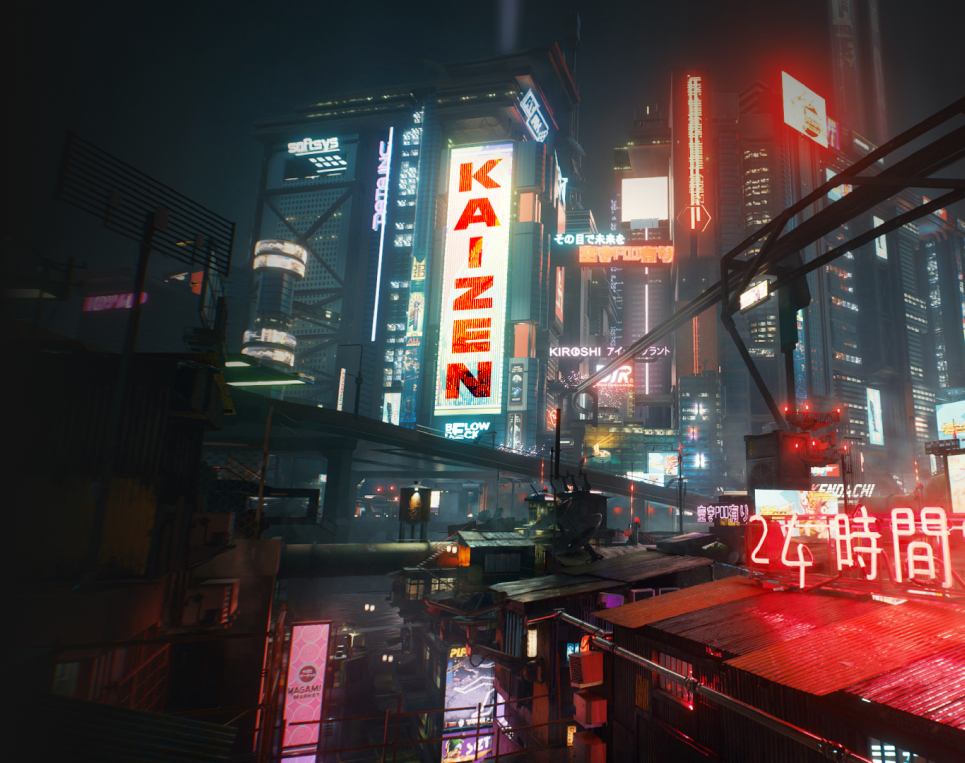
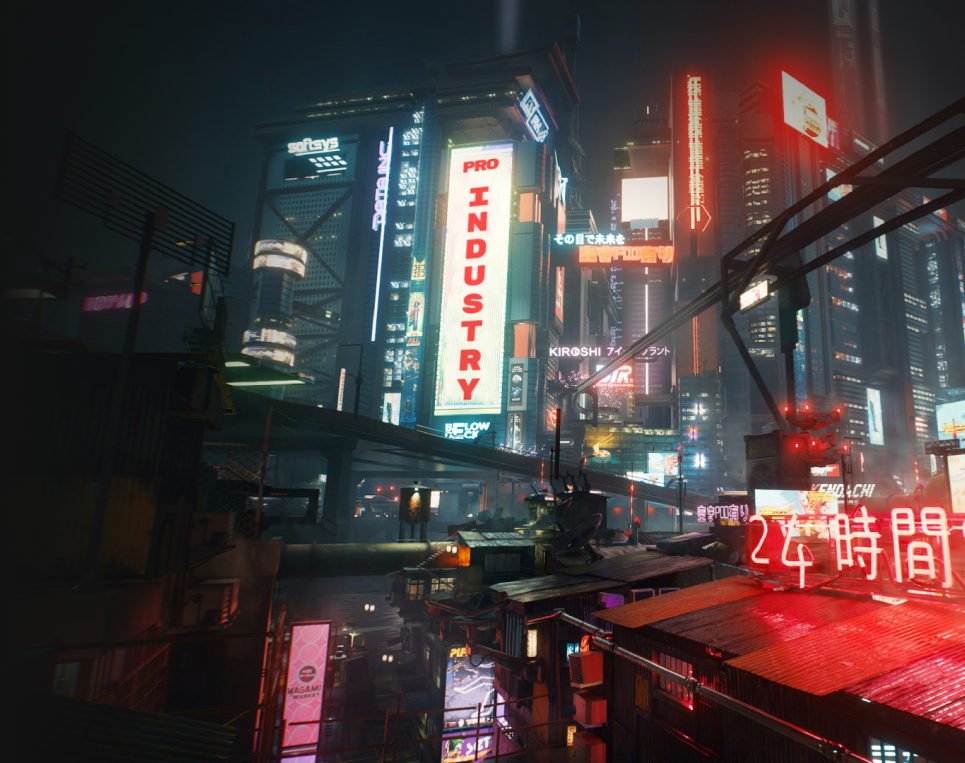
Обновил картинку на главной

Changed region(s): [[0.4352, 0.211, 0.5285, 0.5426]]

diff --git a/assets/scss/main.scss b/assets/scss/main.scss
@@ -56,7 +56,7 @@
 
   text-align: center;
 
-  background-image: url("~/assets/img/s1-bg-mob.png");
+  background-image: url("~/assets/img/s1-bg-mob.jpg");
   background-position: bottom center;
   background-size: auto 550px;
   background-repeat: no-repeat;
